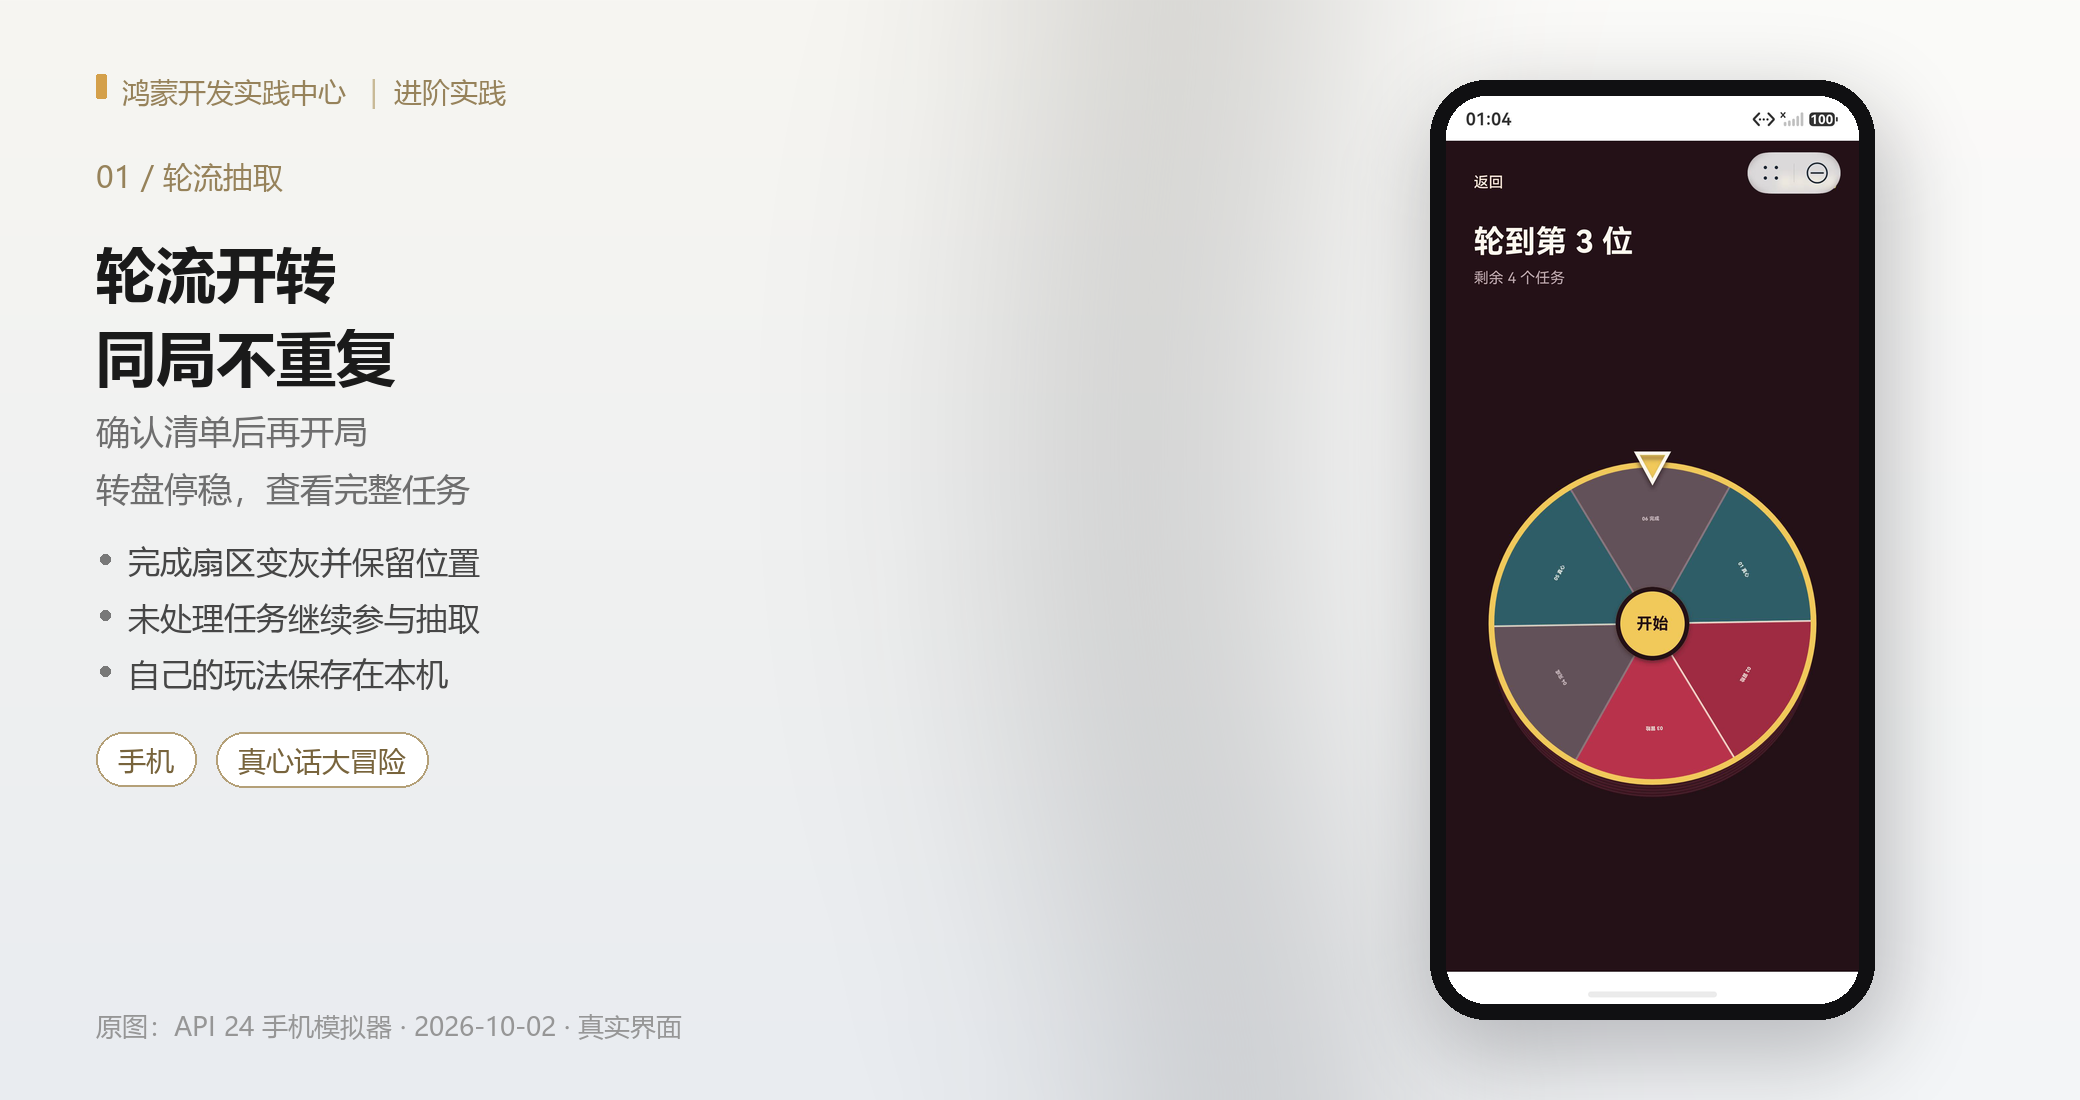
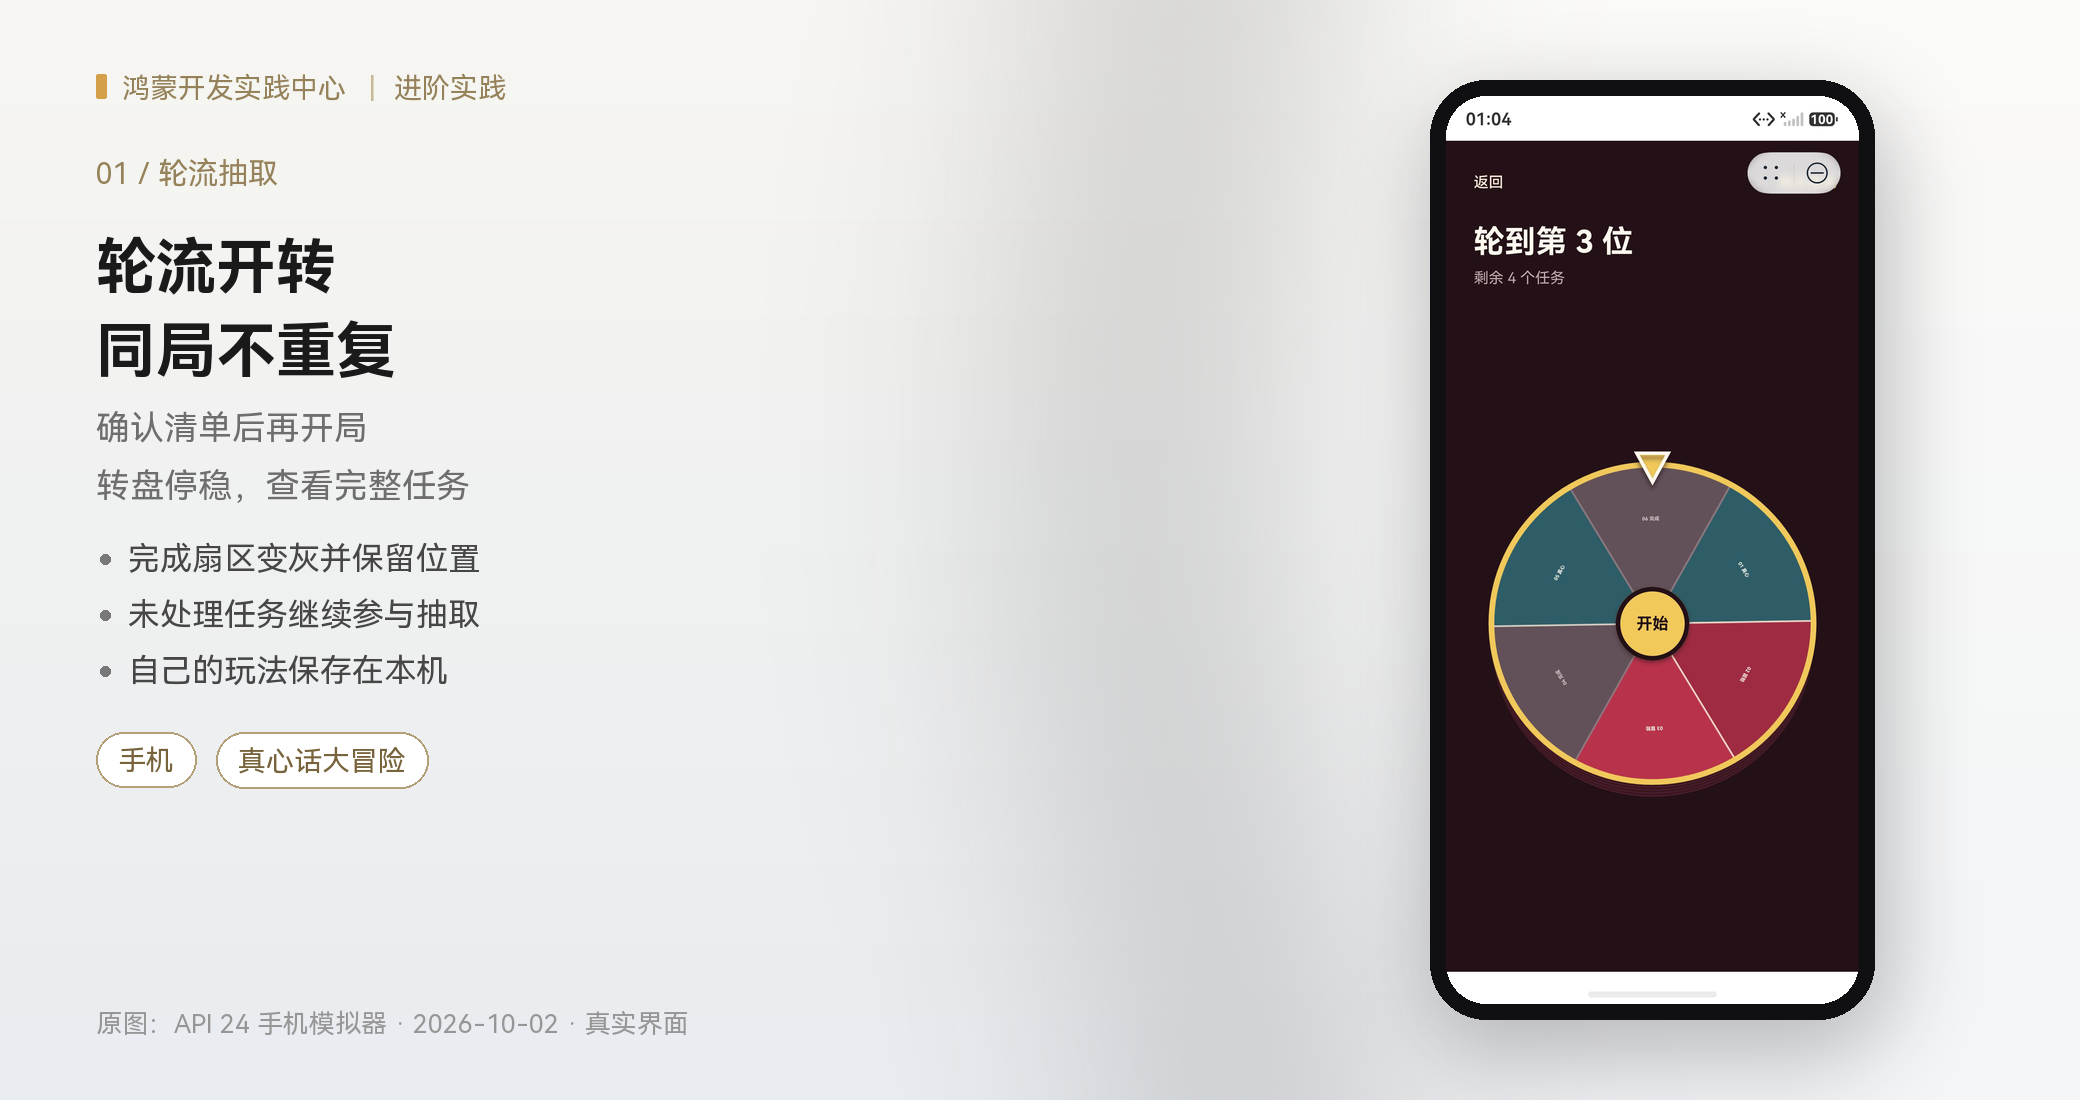
统一发布图片为HarmonyOS Sans字体

diff --git a/README.md b/README.md
@@ -612,3 +612,5 @@ tasks 只带 type、level、text、enabled，不带本地 ID 或时间戳。
 ### 许可证
 
 原创源码、文档和教学任务数据采用 [Apache License 2.0](./LICENSE)。图标、截图、宣传图片及第三方标识范围见 [NOTICE](./NOTICE.md)，代码许可不自动扩展到这些素材和商标。
+
+发布图片的排版文字采用 [HarmonyOS Sans SC](https://developer.huawei.com/consumer/cn/design/resource-V1/)，字体遵循华为官方字体许可。
